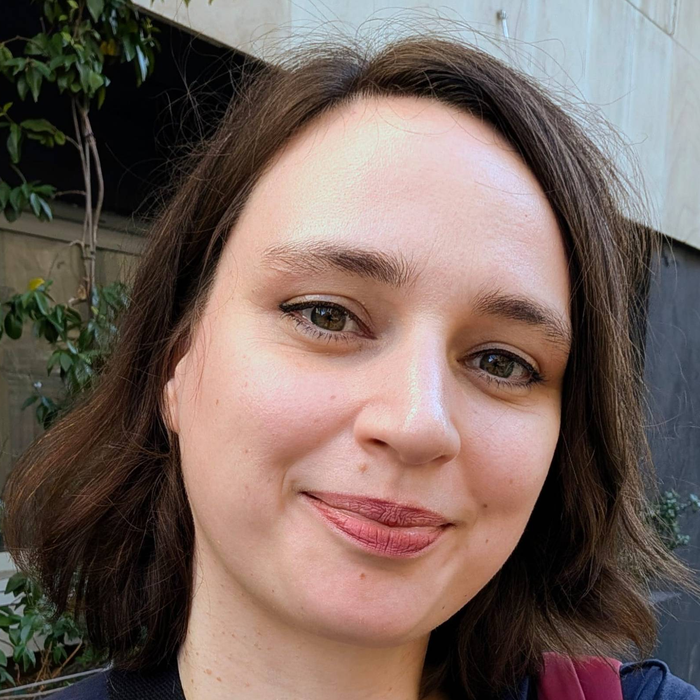
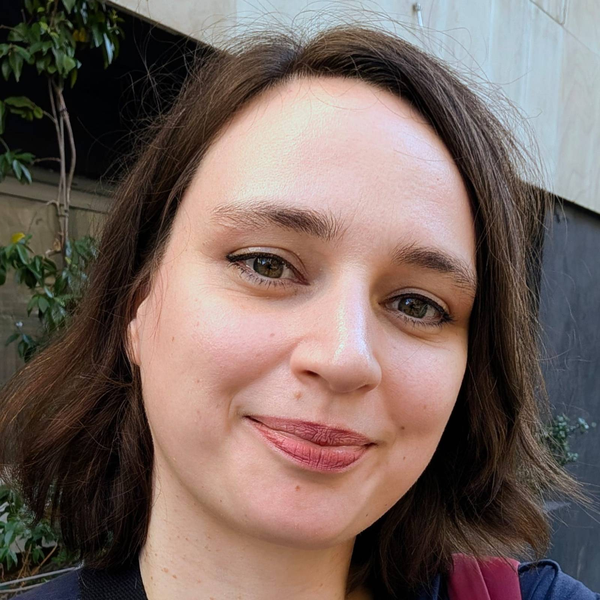
Photo de profil : plus petite (130 px) et mieux centrée sur le visage (#2)
Claude-Session: https://claude.ai/code/session_018JBiWJtdtCuY76GeFdytES

diff --git a/_sass/_sidebar.scss b/_sass/_sidebar.scss
@@ -270,7 +270,7 @@
   }
 
   .sidebar .author__avatar img {
-    max-width: 175px;
+    max-width: 130px;
   }
 
   .sidebar .author__name {
